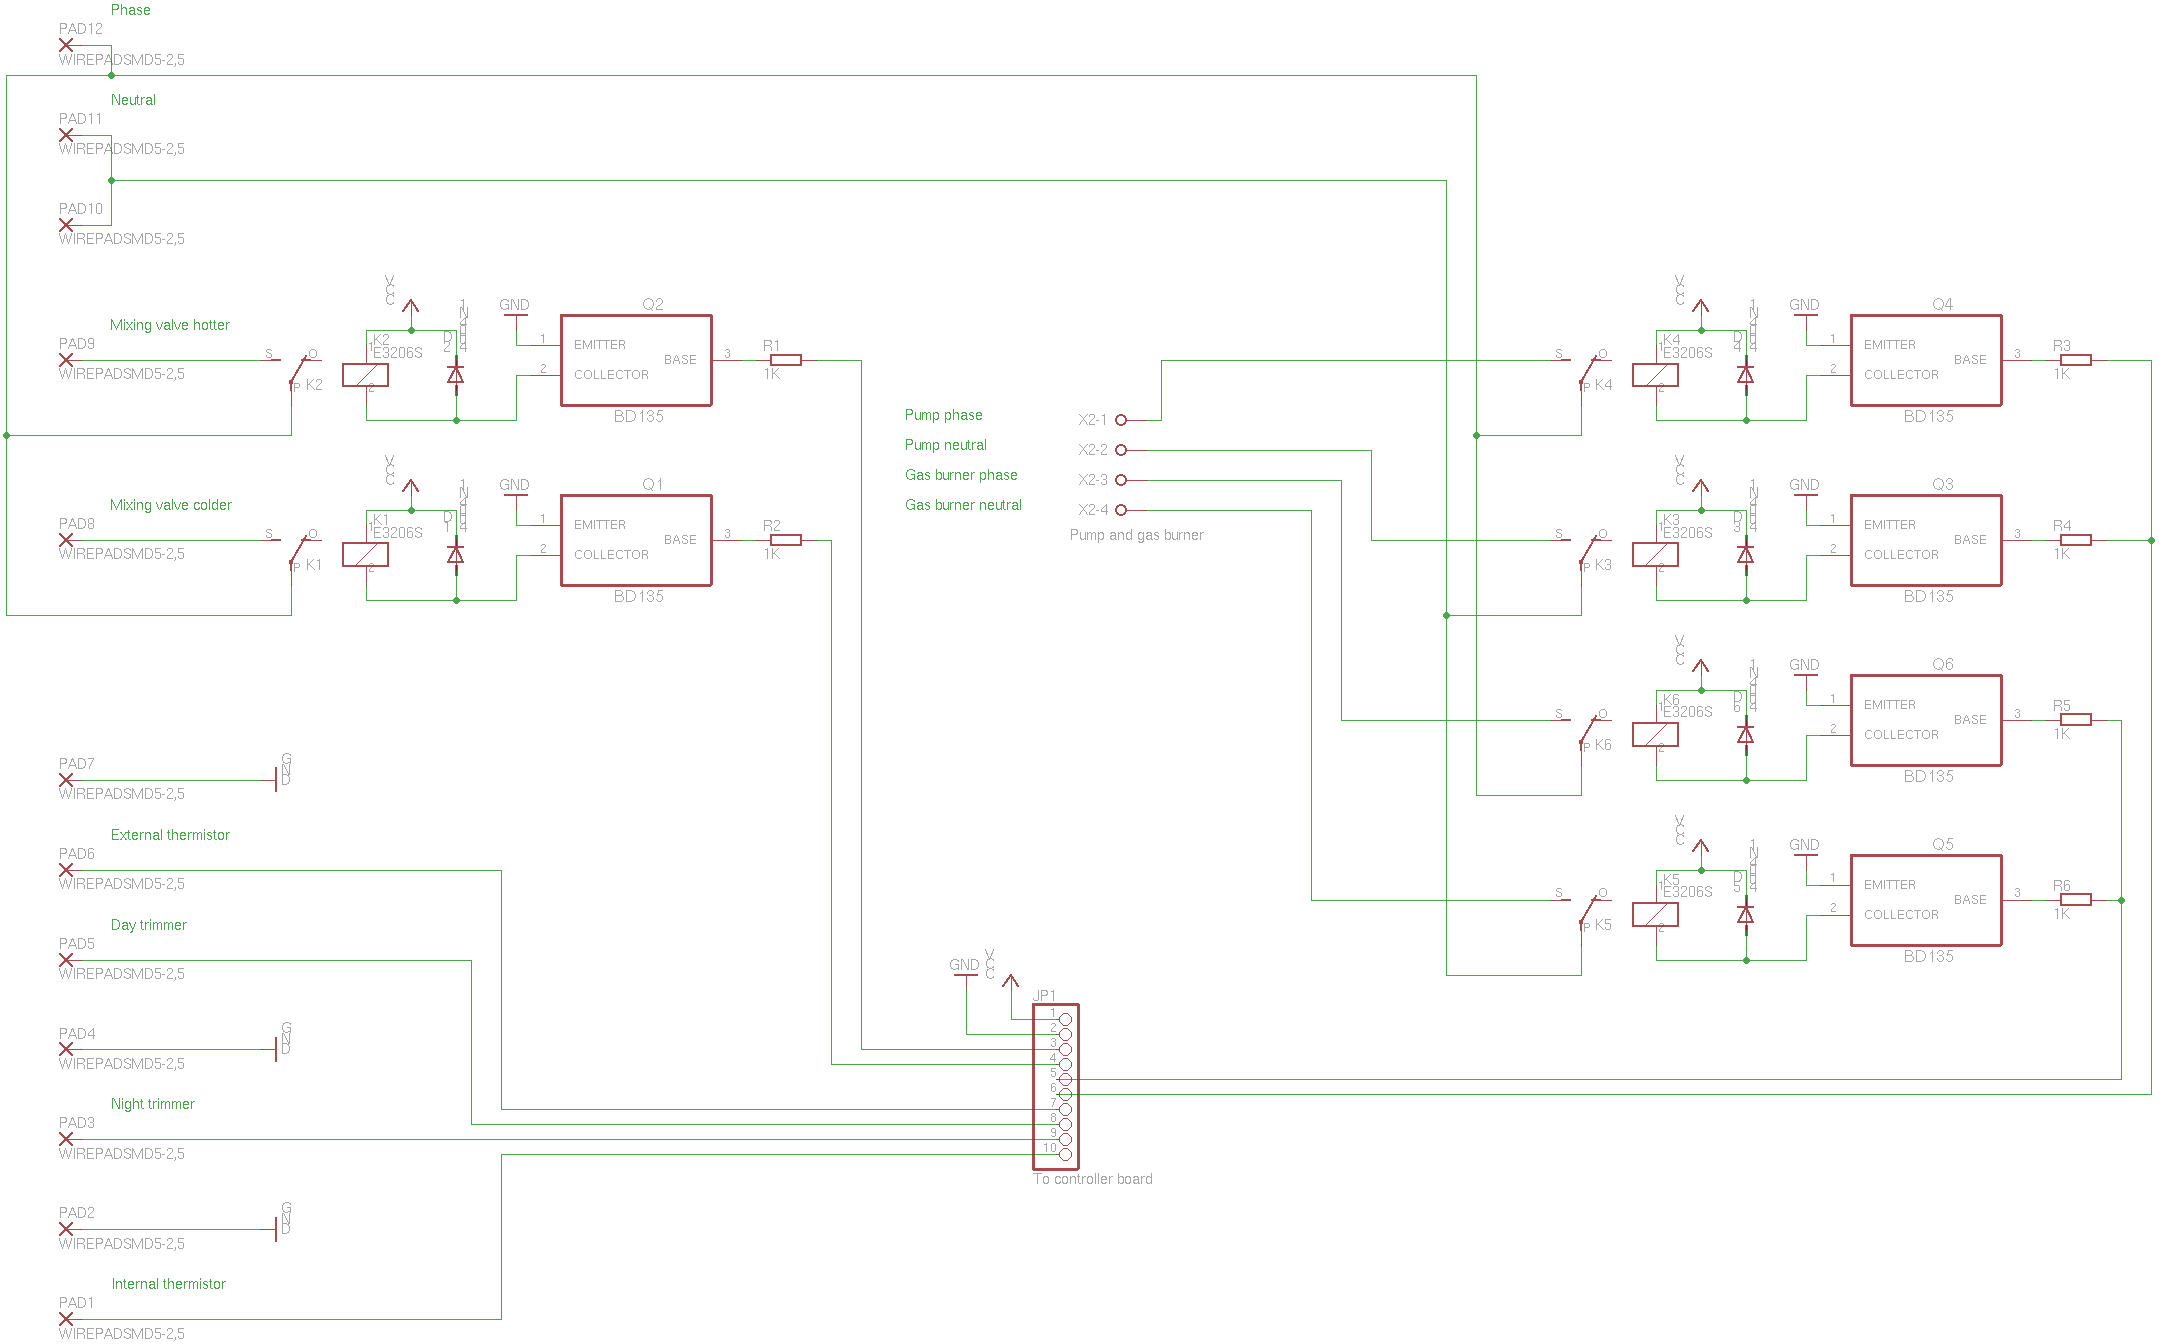
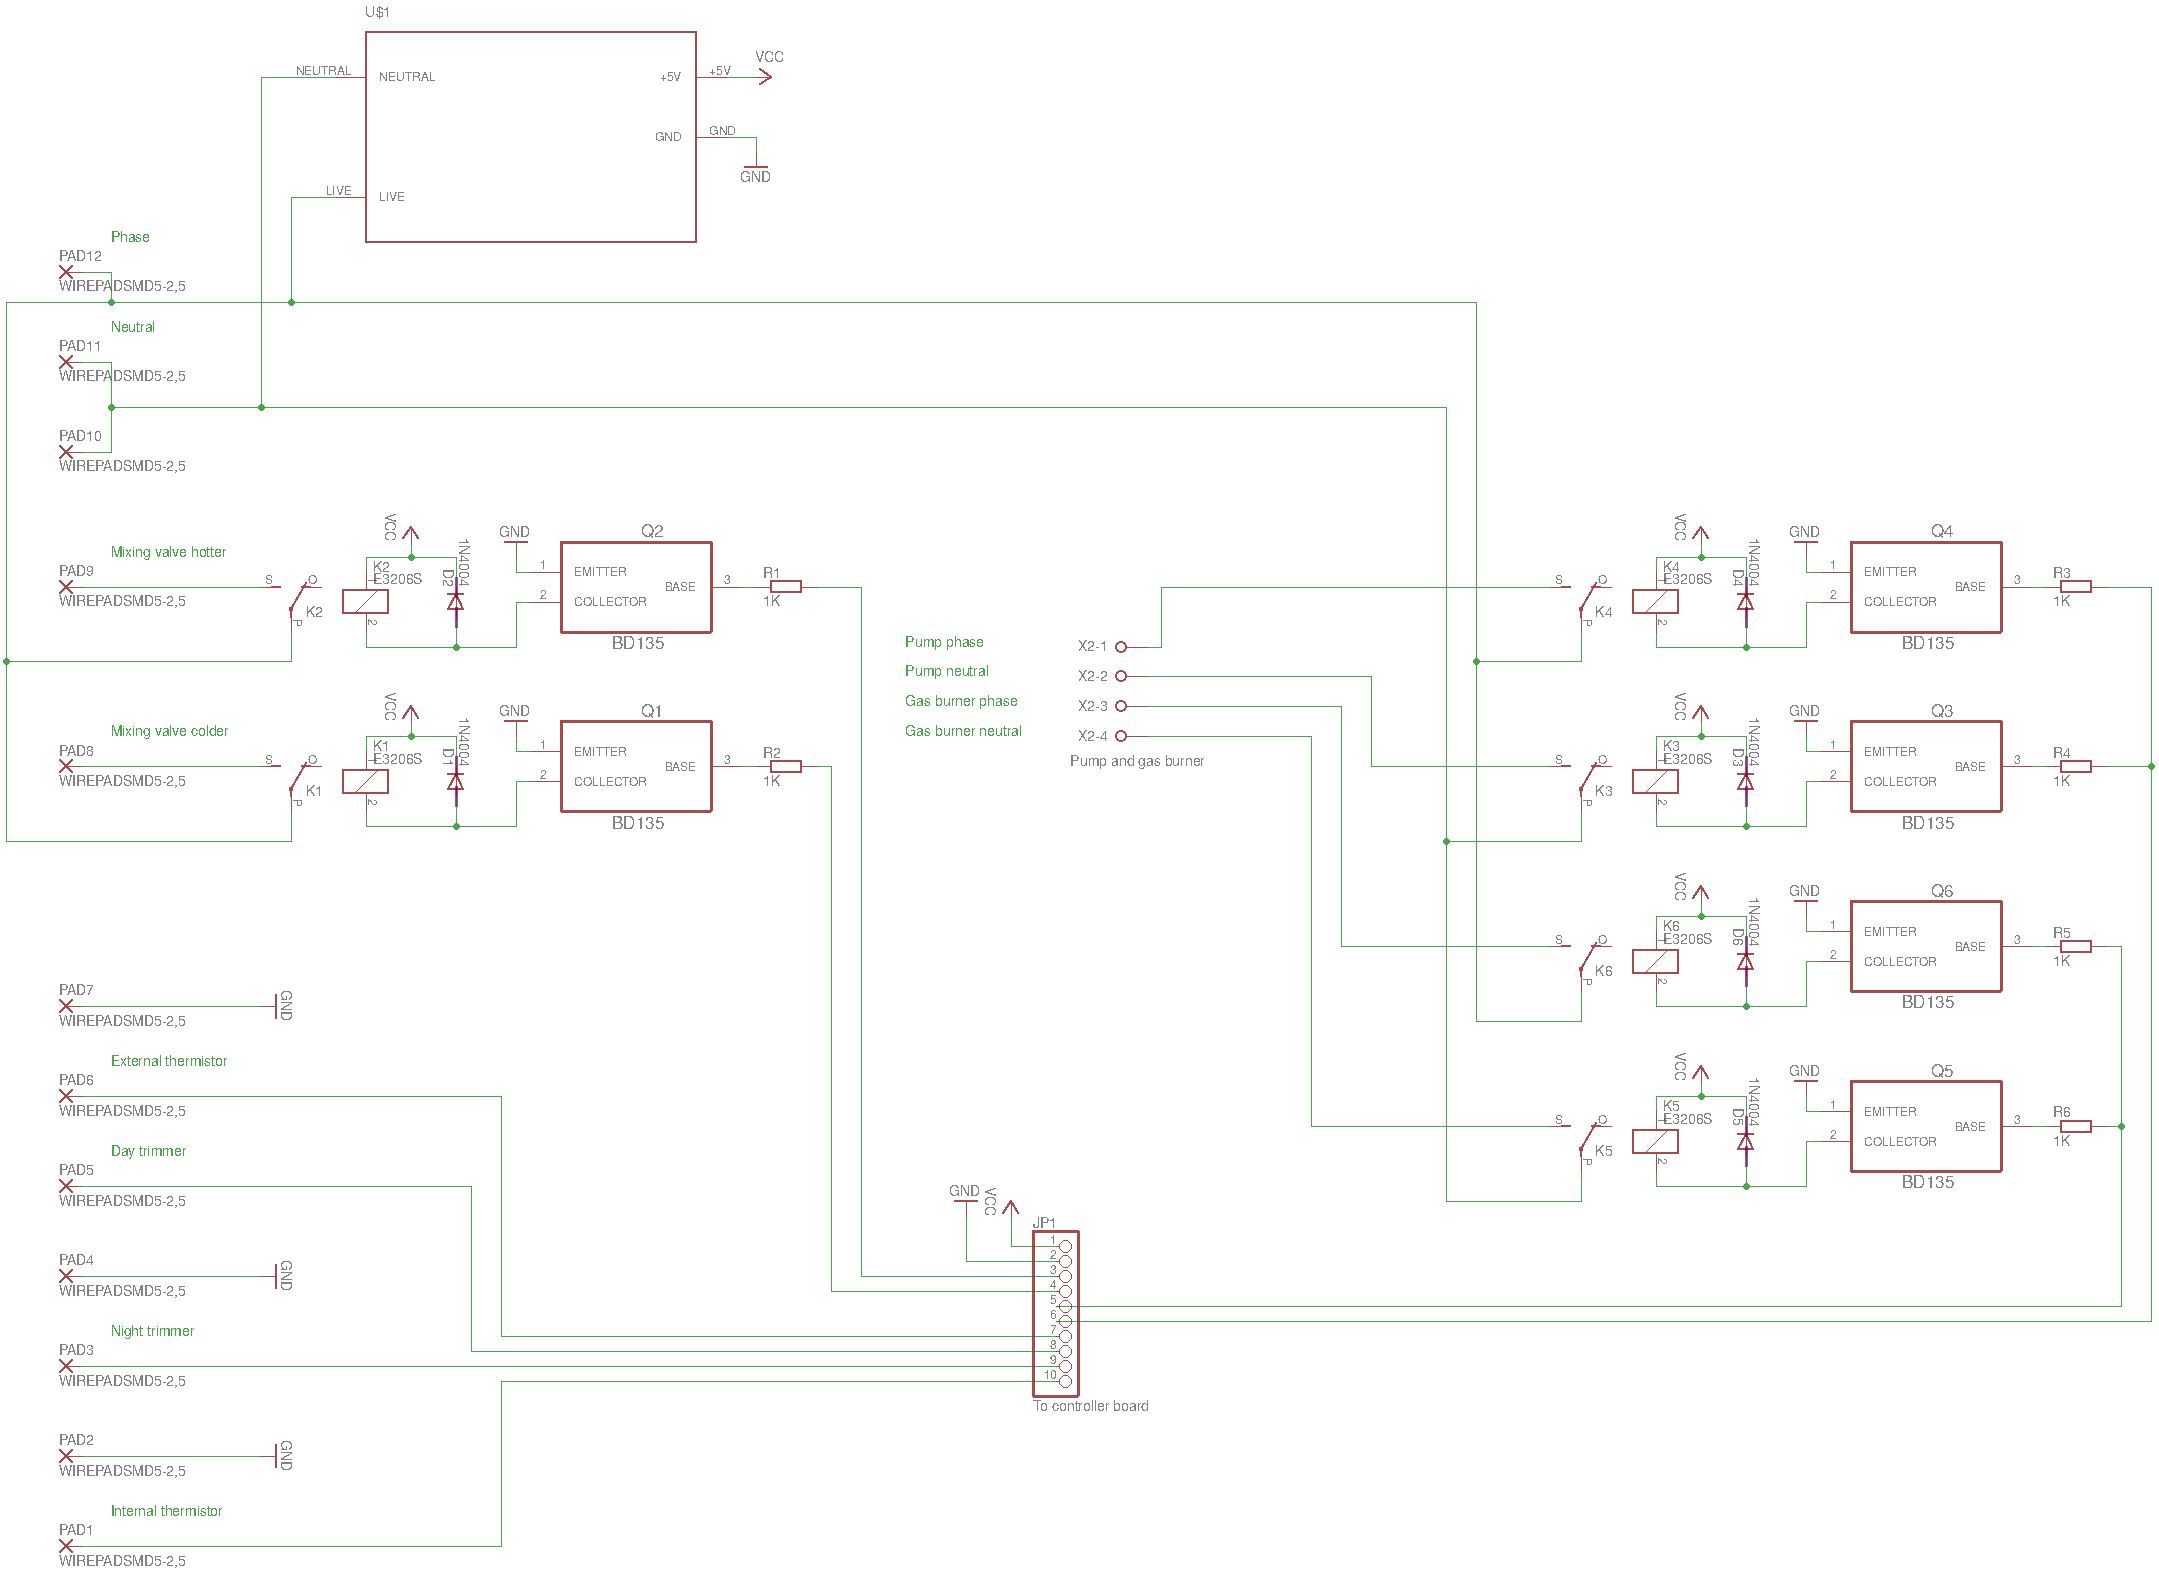
Updated schematic files to Eagle 8.3.1 and added the AC/DC converter to the power board.

diff --git a/README.md b/README.md
@@ -1,7 +1,7 @@
 # Boiler Controller
 
 ## Hardware
-Schematics have been drawn using Eagle 7.5.  
+Schematics have been drawn using Eagle 8.3.1.  
 
 ### Power board
 This board contains the AC/DC converter, the relays and the connector to the wall housing.
@@ -45,3 +45,6 @@ This board holds the microcontroller and the WiFi to UART bridge.
 * External thermistor : resistance variation from 340 (+40°C) to 480ohm (-10°C).
   
 Microcontroller uses a 2V precision voltage reference for the ADC module to gain more precision with small variation signals. All voltage dividers must be calculated as the highest variable resistance value results in a 2V maximum voltage on the ADC pin.
+
+## Software
+Use avr-gcc to build the microcontroller firmware.
